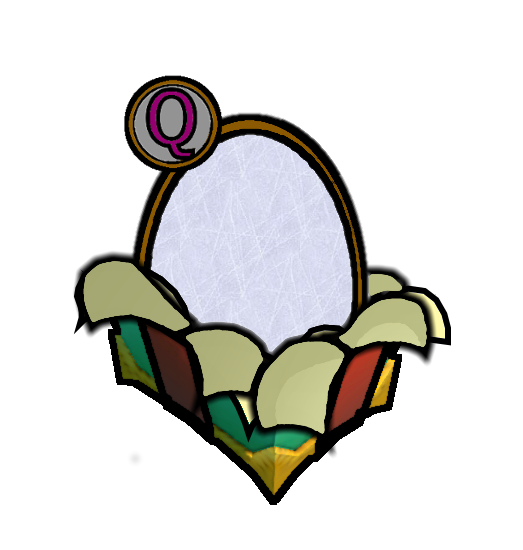
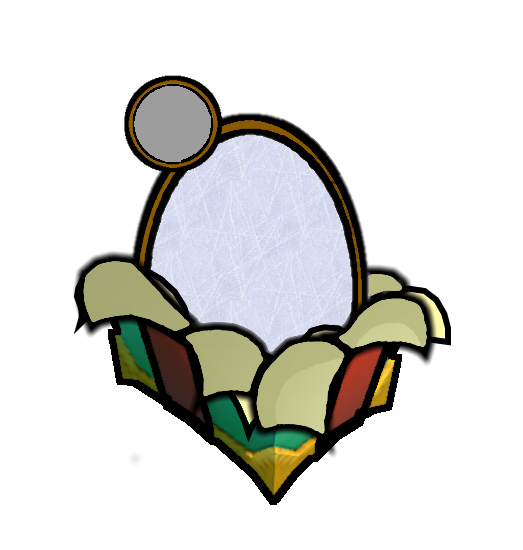
placing hotkey

Changed region(s): [[0.2753, 0.1545, 0.3977, 0.3091]]

diff --git a/content/dota_addons/fest_decor/panorama/styles/custom_game/custom_shop.css b/content/dota_addons/fest_decor/panorama/styles/custom_game/custom_shop.css
@@ -44,9 +44,32 @@
 	 z-index:20;	
 }
 
-#ScoreBoardFinalholder
+.HotkeyHolder
 {
 	visibility: visible;
+
+}
+#Hotkey
+{
+	vertical-align: top;
+	horizontal-align: right;
+	margin-top: 125px;
+	margin-left: 160px;
+	height: 100px;
+	width: 100px;
+	color: #ffffff;
+	text-shadow: 2px 2px 2px #ff0000;
+	font-size: 60px;
+	font-family: monospace;
+	font-weight: bold;
+	text-align: center;
+	opacity: 1;
+
+	z-index: 7;
+}
+#ScoreBoardFinalholder
+{
+	visibility: collapse;
 	flow-children: down;
 	horizontal-align: right;
 	vertical-align: top;
@@ -629,7 +652,7 @@ vertical-align: bottom;
 #magnet
 {
 	visibility: visible;
-vertical-align: bottom;
+	vertical-align: bottom;
 	horizontal-align: middle;
 	height: 45%;
 	width: 45%;

diff --git a/content/dota_addons/fest_decor/panorama/scripts/custom_game/custom_shop.js b/content/dota_addons/fest_decor/panorama/scripts/custom_game/custom_shop.js
@@ -699,7 +699,7 @@ function SwapAbility(data)
 			}
 			else
 			{
-				$("#hotkey").text = Abilities.GetKeybind(Entities.GetAbility( Game.GetPlayerInfo(Players.GetLocalPlayer() ).player_selected_hero_entity_index, 0))
+				$("#Hotkey").text = Abilities.GetKeybind(Entities.GetAbility( Game.GetPlayerInfo(Players.GetLocalPlayer() ).player_selected_hero_entity_index, 0))
 				
 			}
 			
